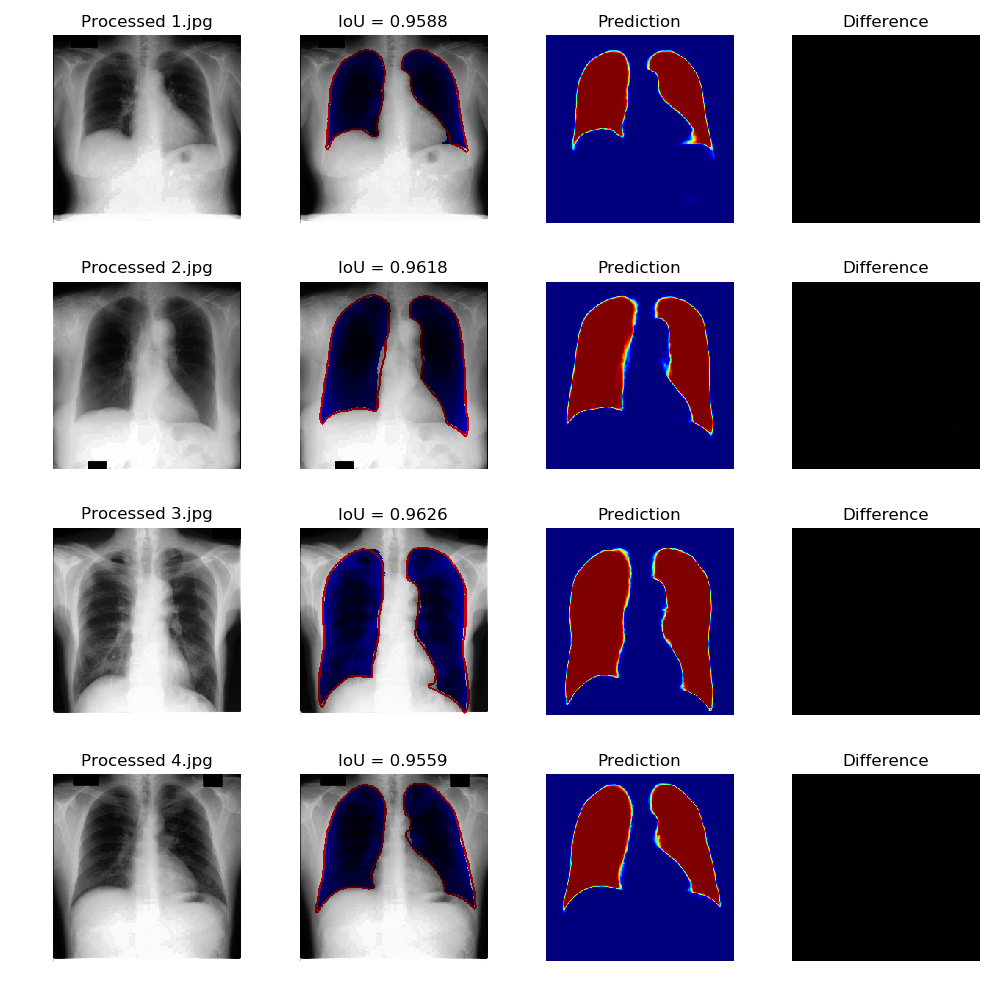
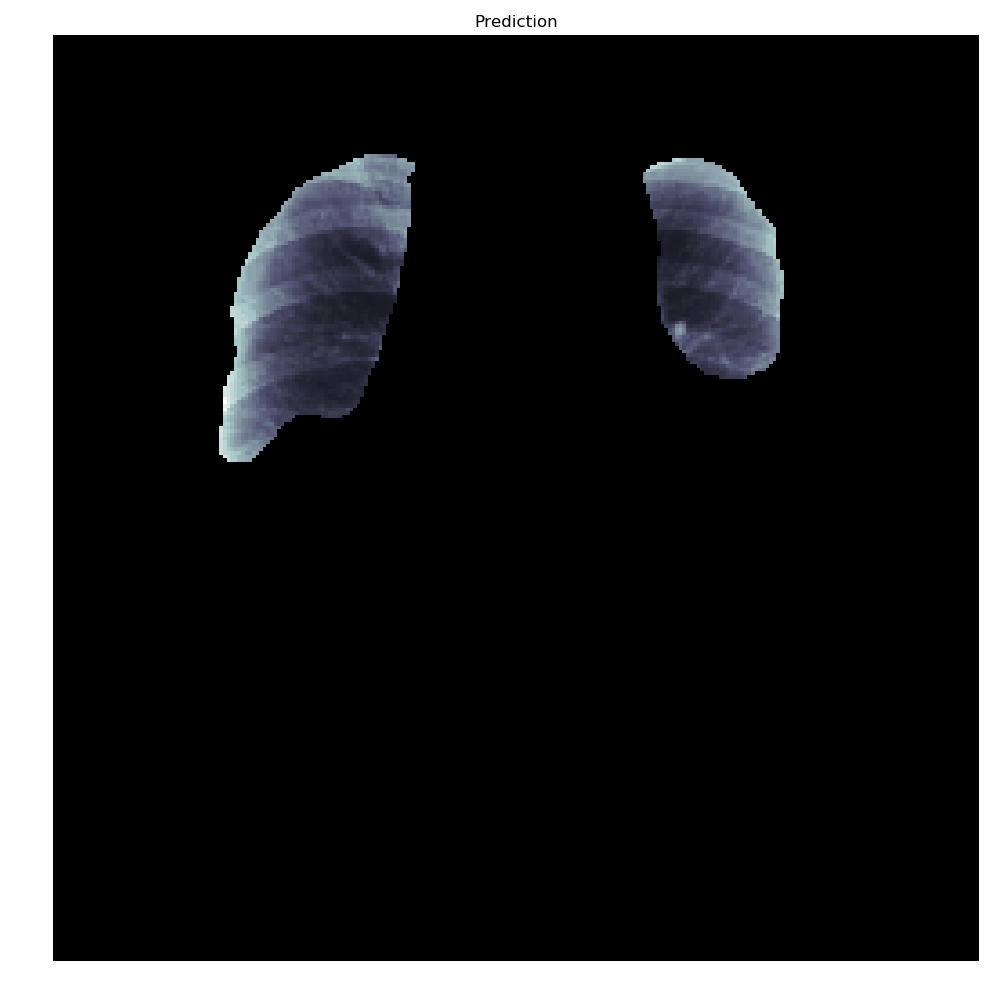
sxdcfgbhnm

diff --git a/Demo/demo.py b/Demo/demo.py
@@ -125,6 +125,8 @@ if __name__ == '__main__':
         pred = UNet.predict(xx)[..., 0].reshape(inp_shape[:2])
         mask = yy[..., 0].reshape(inp_shape[:2])
 
+
+        #Parameters
         gt = mask > 0.5
         pr = pred > 0.5
 
@@ -136,37 +138,21 @@ if __name__ == '__main__':
         prs.append(pr)
         ious[i] = IoU(gt, pr)
         dices[i] = Dice(gt, pr)
-        print (df.iloc[i][0], ious[i], dices[i])
+        print(df.iloc[i][0], ious[i], dices[i])
 
-        if i < 4:
-            plt.subplot(4, 4, 4*i+1)
-            plt.title('Processed ' + df.iloc[i][0])
-            plt.axis('off')
-            plt.imshow(img, cmap='gray')
+        #plt.subplot(4, 4, 4*i+3)
+        #plt.title('Prediction')
+        plt.axis('off')
+        print("sdfghj")
+        plt.imshow(cv2.bitwise_and(img, img, mask=pred.astype(np.uint8)), cmap=plt.cm.bone)
 
-            plt.subplot(4, 4, 4 * i + 2)
-            plt.title('IoU = {:.4f}'.format(ious[i]))
-            plt.axis('off')
-            plt.imshow(masked2(img, gt, pr, 1), cmap=plt.cm.bone)
-
-            plt.subplot(4, 4, 4*i+3)
-            plt.title('Prediction')
-            plt.axis('off')
-            print("sdfghj")
-            plt.imshow(cv2.bitwise_and(img, img, mask=pred.astype(np.uint8)), cmap=plt.cm.bone)
-            #plt.imshow(pred, cmap='jet')
-
-            plt.subplot(4, 4, 4*i+4)
-            plt.title('Difference')
-            plt.axis('off')
-            plt.imshow(np.dstack((pr.astype(np.int8), gt.astype(np.int8), pr.astype(np.int8))))
 
         i += 1
         if i == n_test:
             break
 
-    print ('Mean IoU:', ious.mean())
-    print ('Mean Dice:', dices.mean())
+    print('Mean IoU:', ious.mean())
+    print('Mean Dice:', dices.mean())
     plt.tight_layout()
     plt.savefig('results.png')
     plt.show()
